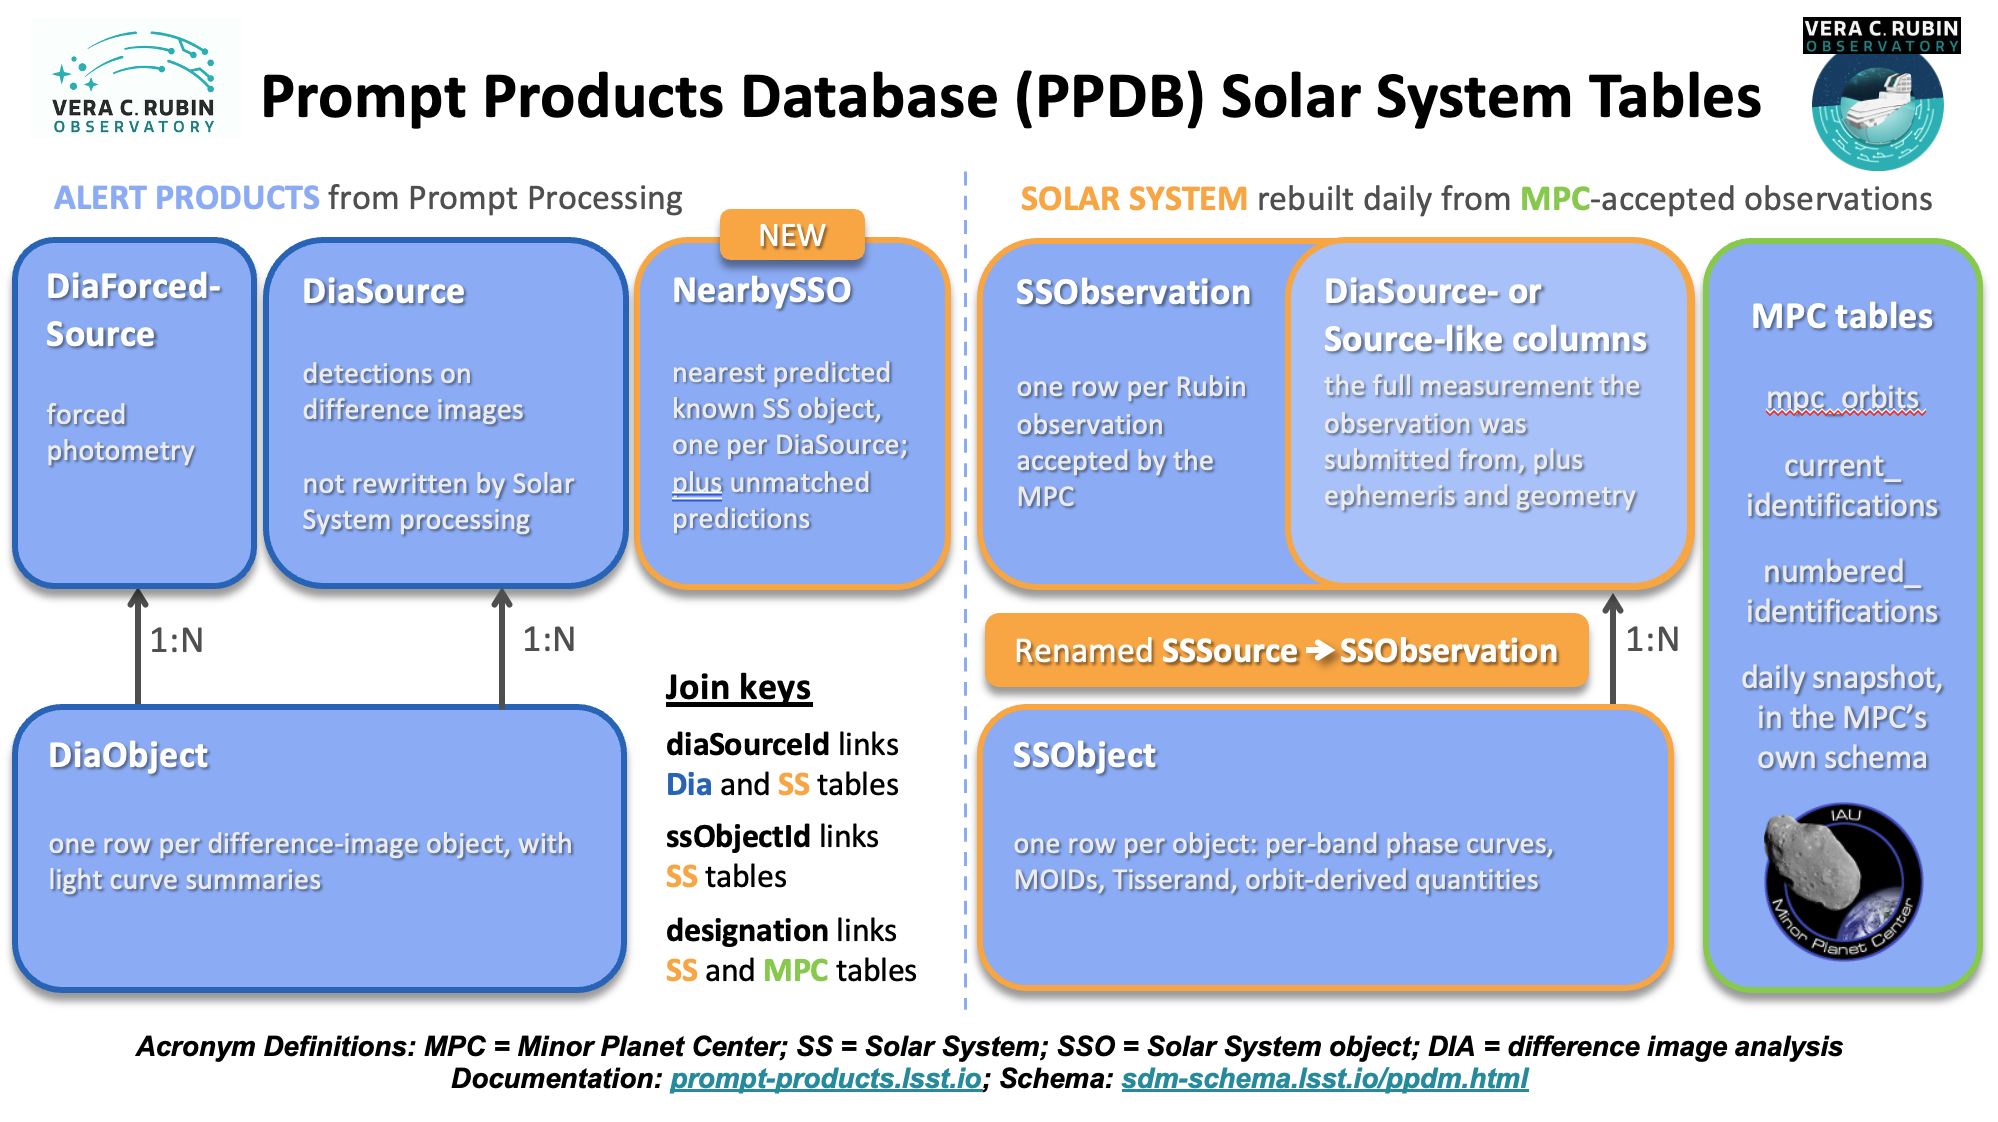
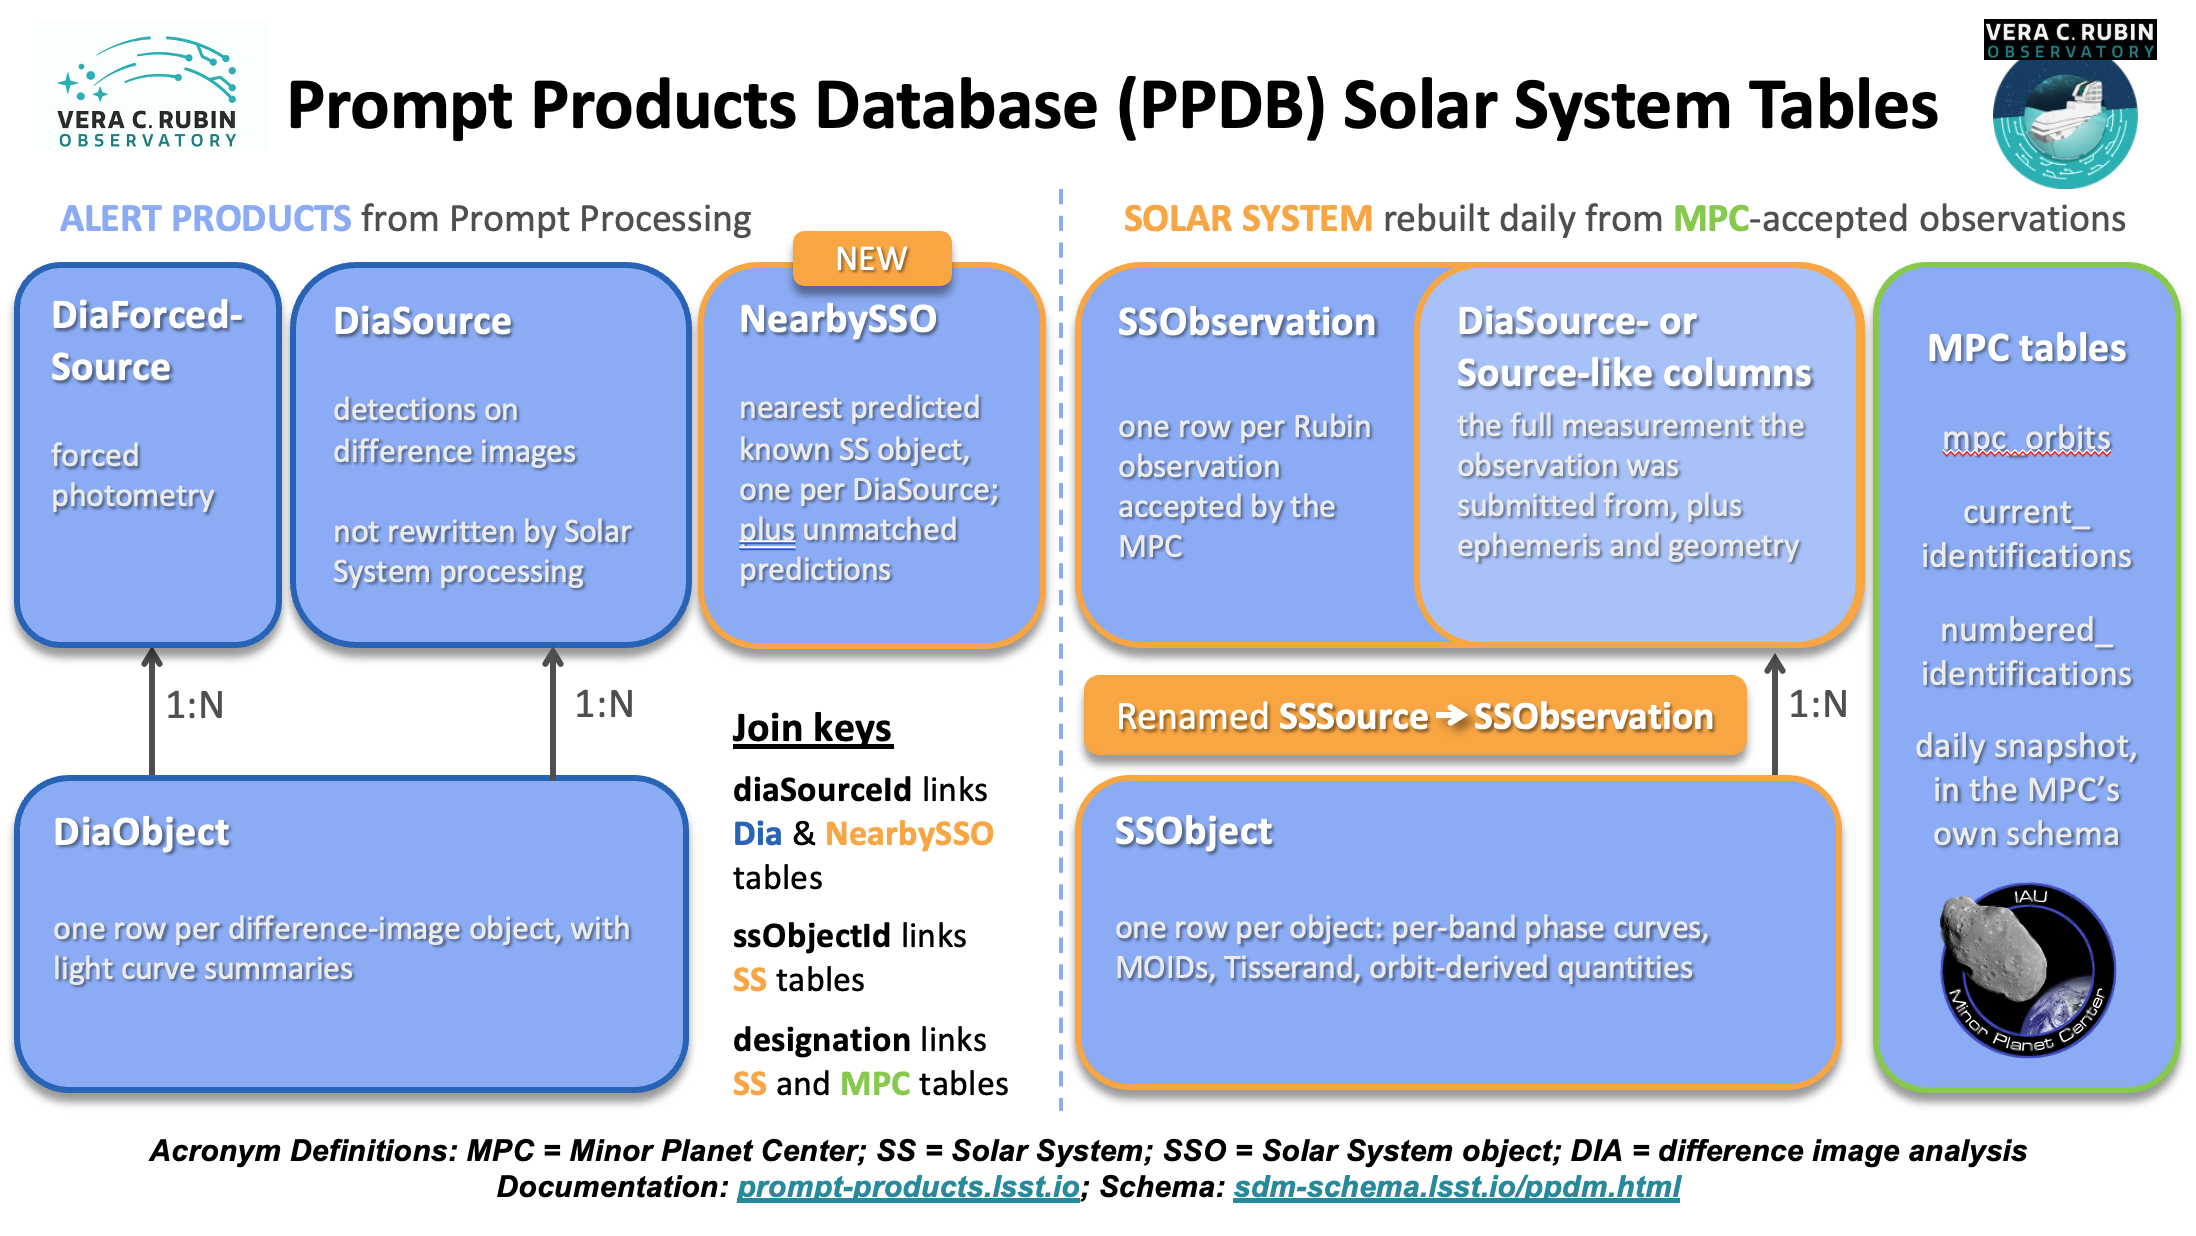
Update infographic and SS processing page.

diff --git a/docs/processing/moving/index.rst b/docs/processing/moving/index.rst
@@ -75,7 +75,7 @@ The prompt products database (PPDB) delivers associations between Rubin differen
    * - :doc:`numbered_identifications </products/catalogs/numbered_identifications>`
      - An MPC mapping between permanent numbers and primary provisional designations.
 
-The ``DiaSource`` and ``DiaForcedSource`` catalogs can be joined with the ``SSObservation`` and ``NearbySSO`` table using the ``diaSourceId``. The ``SSObject``, ``SSObservation``, ``NearbySSO``, and ``DiaSource`` catalogs can be joined using the ``ssObjectId``. And the ``SSObject``, ``SSObservation``, and ``mpc_orbits`` catalogs can be joined using the ``designation``.
+**Join Keys:** The ``SSObject``, ``SSObservation``, and ``NearbySSO`` catalogs can be joined using the ``ssObjectId``. The ``SSObject``, ``SSObservation``, and ``mpc_orbits`` catalogs can be joined using the ``designation``. The ``DiaSource`` and ``DiaForcedSource`` catalogs can be joined with the ``NearbySSO`` table using the ``diaSourceId``. **NOTE:** The ``SSObservation`` table contains the ``DiaSource``- or ``Source``-like columns for the difference image detection or direct image detection from which the Rubin observation was submitted to the MPC; there should thus never be a need to join the ``SSObservation`` and ``DiaSource`` tables.
 
 The three MPC tables retain the upstream MPC field semantics rather than being recomputed from Rubin DP2 observations.
 The delivered ``mpc_orbits`` reference product is the same snapshot of the ``mpc_orbits`` table from the Minor Planet Center Database from 2026 March 13 that was used as input to association.
